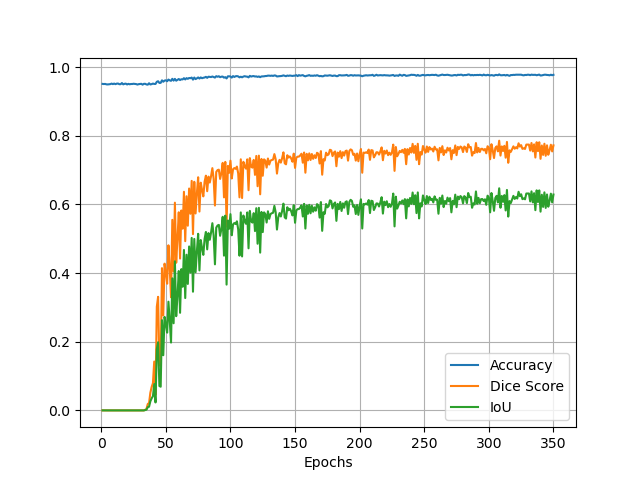
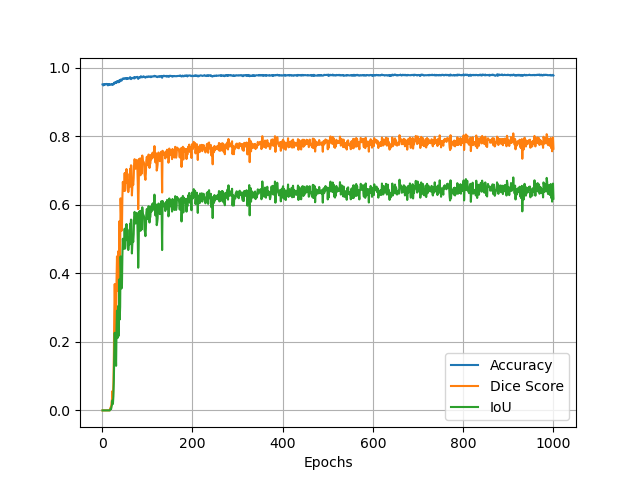
Small augmentation modifications, notebook for graph generation

diff --git a/UNET/utils.py b/UNET/utils.py
@@ -13,7 +13,7 @@ from datetime import datetime
 
 
 def save_checkpoint(state, filename="my_checkpoint.pth.tar"):
-    print("=> Saving checkpoint")
+    print(f"=> Saving checkpoint at {filename}")
     torch.save(state, filename)
 
 
@@ -196,9 +196,9 @@ def get_transforms(model_architecture='UNET', img_height=520, img_width=696):
                     A.RandomCrop(img_height, img_width),
                     A.HorizontalFlip(p=0.5),
                     A.VerticalFlip(p=0.1),
-                    A.RandomBrightness(limit=0.2, p=0.5),
                     A.CoarseDropout(min_holes=17, max_holes=35, p=0.5),
                     A.GridDistortion(num_steps=4, distort_limit=0.3, p=0.3, border_mode=4),
+                    A.RandomBrightnessContrast(brightness_limit=(-0.3, 0.6), contrast_limit=0.1, p=0.5),
                     A.Normalize(
                         mean=[0.485, 0.456, 0.406],
                         std=[0.229, 0.224, 0.225]

diff --git a/UNET/train.py b/UNET/train.py
@@ -21,10 +21,10 @@ from utils import (
 LEARNING_RATE = 1e-4
 DEVICE = "cuda" if torch.cuda.is_available() else "cpu"
 # DEVICE = "cpu"
-BATCH_SIZE = 32
+BATCH_SIZE = 16
 # BATCH_SIZE = 32
 # BATCH_SIZE = 64
-NUM_EPOCHS = 350
+NUM_EPOCHS = 1000
 SAVE_CHECKPOINT_EVERY = 5
 NUM_WORKERS = 2
 # IMAGE_HEIGHT = 160  # 520 originally
@@ -127,6 +127,7 @@ def main(model_architecture='UNET'):
     # final save
     if NUM_EPOCHS % SAVE_CHECKPOINT_EVERY != 0:
         save_checkpoint(checkpoint, filename="checkpoints/my_checkpoint.pth.tar")
+        save_predictions_as_imgs(val_loader, model, folder="saved_images/", device=DEVICE)
 
     metric_tuples = [
         (accuracy_list, 'Accuracy'),
